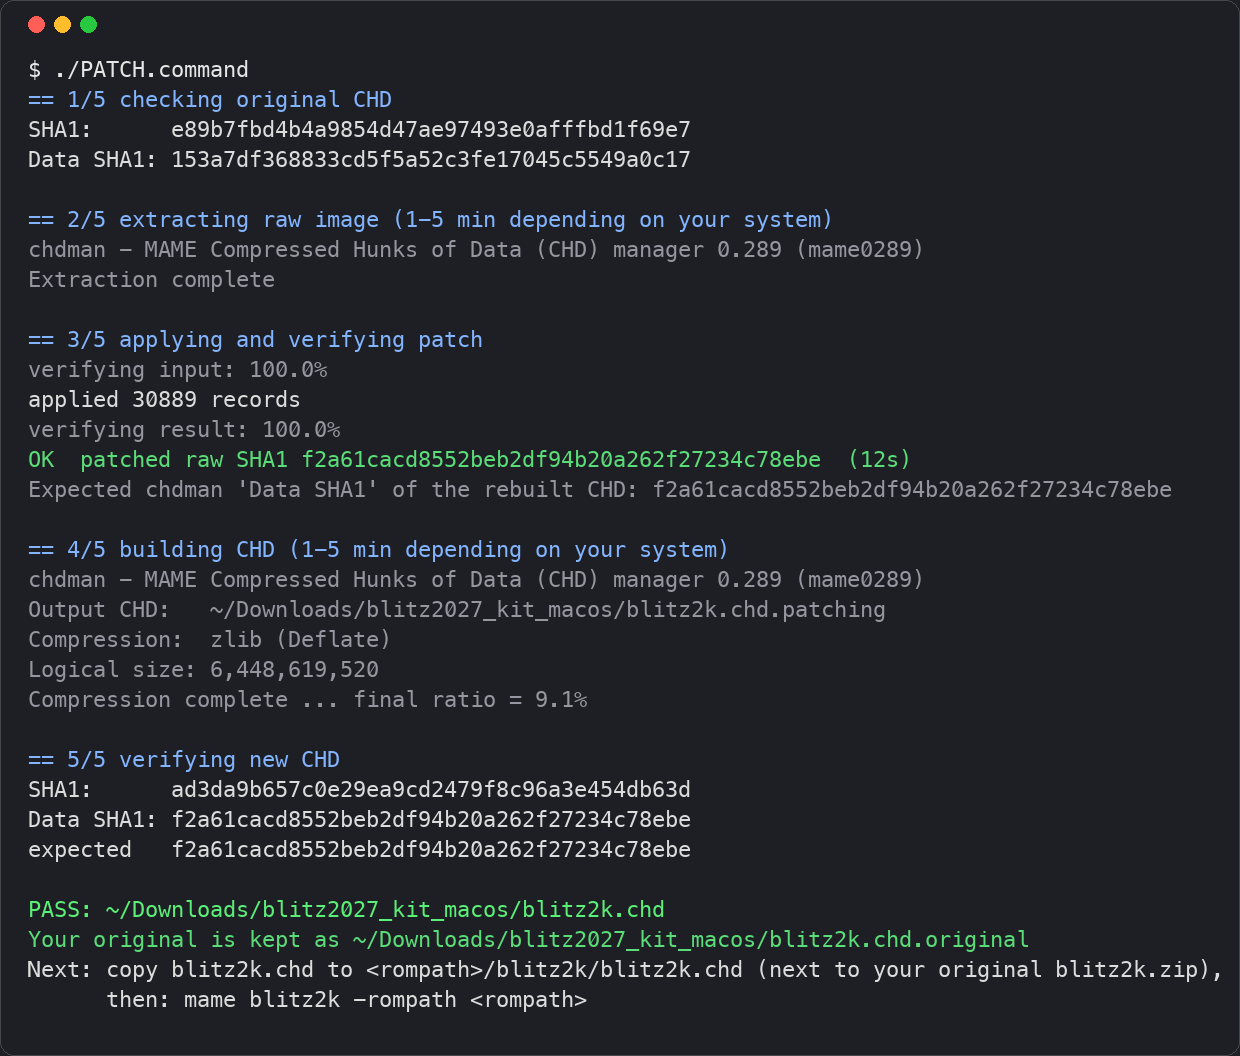
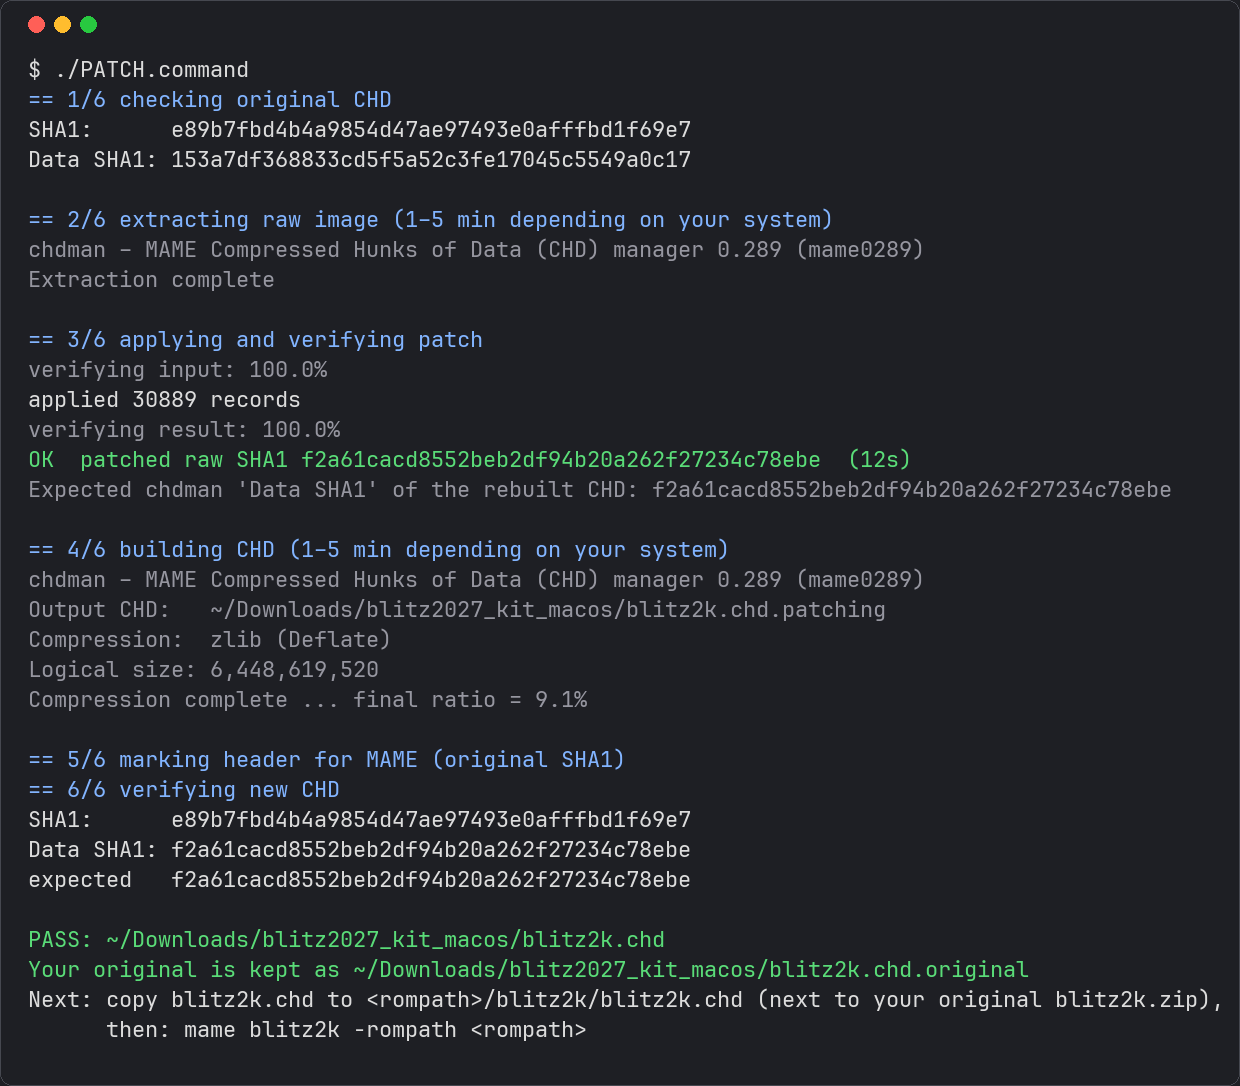
v1.0.1: mark CHD header with the original SHA1 so MAME boots without the checksum notice

diff --git a/dist/go/run.go b/dist/go/run.go
@@ -2,6 +2,7 @@ package main
 
 import (
 	"bytes"
+	"encoding/binary"
 	"encoding/hex"
 	"fmt"
 	"os"
@@ -42,6 +43,38 @@ func runChdman(chdman string, args ...string) *exitErr {
 		return fail(4, "chdman %s failed: %v", args[0], err)
 	}
 	fmt.Fprintln(os.Stderr)
+	return nil
+}
+
+// origCHDSHA1 is the "SHA1" field of the original blitz2k.chd header. MAME trusts this
+// field instead of rehashing, so writing it makes the patched disk pass its audit.
+// The "Data SHA1" field (the one the PASS check uses) is left alone.
+const (
+	origCHDSHA1   = "e89b7fbd4b4a9854d47ae97493e0afffbd1f69e7"
+	chdSHA1Offset = 84
+)
+
+// markCHDHeader writes origCHDSHA1 into the CHD v5 header of path.
+func markCHDHeader(path string) *exitErr {
+	want, _ := hex.DecodeString(origCHDSHA1)
+	f, err := os.OpenFile(path, os.O_RDWR, 0)
+	if err != nil {
+		return fail(3, "cannot open %s to mark header: %v", path, err)
+	}
+	defer f.Close()
+	hdr := make([]byte, 16)
+	if _, err := f.ReadAt(hdr, 0); err != nil {
+		return fail(3, "cannot read CHD header of %s: %v", path, err)
+	}
+	if string(hdr[:8]) != "MComprHD" || binary.BigEndian.Uint32(hdr[12:16]) != 5 {
+		return fail(4, "%s is not a CHD v5 file (unexpected header); cannot mark it for MAME.", path)
+	}
+	if _, err := f.WriteAt(want, chdSHA1Offset); err != nil {
+		return fail(3, "cannot write CHD header of %s: %v", path, err)
+	}
+	if err := f.Sync(); err != nil {
+		return fail(3, "cannot flush CHD header of %s: %v", path, err)
+	}
 	return nil
 }
 
@@ -134,7 +167,7 @@ func run(args []string) *exitErr {
 	wantIn := hex.EncodeToString(h.pchd[:])
 	wantOut := hex.EncodeToString(h.tchd[:])
 
-	fmt.Println("== 1/5 checking original CHD")
+	fmt.Println("== 1/6 checking original CHD")
 	got, sha, e := chdmanDataSHA1(chdman, in)
 	if e != nil {
 		return e
@@ -166,21 +199,26 @@ func run(args []string) *exitErr {
 	defer os.RemoveAll(work)
 	raw := filepath.Join(work, "in.raw")
 
-	fmt.Println("\n== 2/5 extracting raw image (1-5 min depending on your system)")
+	fmt.Println("\n== 2/6 extracting raw image (1-5 min depending on your system)")
 	if e := runChdman(chdman, "extracthd", "-f", "-i", in, "-o", raw); e != nil {
 		return e
 	}
-	fmt.Println("== 3/5 applying and verifying patch")
+	fmt.Println("== 3/6 applying and verifying patch")
 	if e := apply([]string{raw, bpz, "--in-place"}); e != nil {
 		return e
 	}
-	fmt.Println("\n== 4/5 building CHD (1-5 min depending on your system)")
+	fmt.Println("\n== 4/6 building CHD (1-5 min depending on your system)")
 	if e := runChdman(chdman, "createhd", "-f", "-i", raw, "-o", out, "-c", "zlib", "-hs", "4096", "-chs", "784,255,63", "-ss", "512"); e != nil {
 		os.Remove(out)
 		return e
 	}
 	os.Remove(raw)
-	fmt.Println("== 5/5 verifying new CHD")
+	fmt.Println("== 5/6 marking header for MAME (original SHA1)")
+	if e := markCHDHeader(out); e != nil {
+		os.Remove(out)
+		return e
+	}
+	fmt.Println("== 6/6 verifying new CHD")
 	got, sha, e = chdmanDataSHA1(chdman, out)
 	if e != nil {
 		return e

diff --git a/dist/apply_patch.py b/dist/apply_patch.py
@@ -1,5 +1,6 @@
 #!/usr/bin/env python3
 """apply_patch.py PRISTINE.raw blitz2027.bpz -o OUT.raw   (or --in-place)
+       apply_patch.py --mark-chd REBUILT.chd
 
 Python 3.8+, stdlib only. Verifies the pristine SHA1 (streaming) before
 touching anything, applies the patch, then verifies the target SHA1.
@@ -19,10 +20,25 @@ def sha1_file(path, label):
     print(file=sys.stderr)
     return h.digest()
 
+ORIG_CHD_SHA1 = bytes.fromhex("e89b7fbd4b4a9854d47ae97493e0afffbd1f69e7")  # original blitz2k.chd header "SHA1"
+CHD_SHA1_OFFSET = 84
+
+def mark_chd_header(path):
+    """Write the original disk's SHA1 into a CHD v5 header (MAME trusts it, never rehashes).
+    The Data SHA1 field is untouched. Run on the CHD you built from the patched raw."""
+    with open(path, "r+b") as f:
+        hdr = f.read(16)
+        if hdr[:8] != b"MComprHD" or struct.unpack(">I", hdr[12:16])[0] != 5:
+            die(f"{path} is not a CHD v5 file; cannot mark it for MAME")
+        f.seek(CHD_SHA1_OFFSET); f.write(ORIG_CHD_SHA1); f.flush(); os.fsync(f.fileno())
+    print(f"marked {path}: header SHA1 = {ORIG_CHD_SHA1.hex()}")
+
 def die(msg):
     sys.exit("ERROR: " + msg)
 
 def main():
+    if len(sys.argv) == 3 and sys.argv[1] == "--mark-chd":
+        return mark_chd_header(sys.argv[2])
     ap = argparse.ArgumentParser()
     ap.add_argument("pristine_raw"); ap.add_argument("patch")
     g = ap.add_mutually_exclusive_group(required=True)
@@ -74,6 +90,8 @@ def main():
     print(f"OK  patched raw SHA1 {got.hex()}  ({time.time()-t0:.0f}s)")
     print(f"Expected chdman 'Data SHA1' of the rebuilt CHD: {tchd.hex()}")
     print(f"Target raw MD5: {tmd5.hex()}")
+    print("Next: chdman createhd -i <raw> -o blitz2k.chd -c zlib -hs 4096 -chs 784,255,63 -ss 512,")
+    print("then: apply_patch.py --mark-chd blitz2k.chd   (so MAME accepts it as the original)")
 
 if __name__ == "__main__":
     main()

diff --git a/README.md b/README.md
@@ -15,7 +15,7 @@ MAME set blitz2k, *NFL Blitz 2000 Gold Edition (ver 1.2, Sep 22 1999)*:
 
 Only the CHD changes; keep your blitz2k.zip as is. Check yours with `chdman info -i blitz2k.chd` (the SHA1 line) and `mame -verifyroms blitz2k`. This repository holds the patcher and the tooling that builds the downloads.
 
-Current release: **v1.0.0** (build 1006a)
+Current release: **v1.0.1** (build 1007a)
 
 ## What's new since the original game
 - **32 teams.** The Houston Texans join with their own roster, ratings, helmets, uniforms, end zone, wordmark and announcer bank.
@@ -46,16 +46,16 @@ Takes 2 to 10 minutes depending on your system and needs about 13 GB of temporar
    - **macOS:** double-click PATCH.command. The patch's programs are not notarized; see the macOS note under Notes below.
    - **Linux:** run ./patch.sh. x86-64 and arm64 are both in the one zip and the right one is selected automatically. Set CHDMAN=/path/to/chdman to use your own chdman.
 3. Wait for **PASS**. The patch folder now holds the patched blitz2k.chd and your untouched original as blitz2k.chd.original (keep it; you need it for future versions). Copy the new blitz2k.chd into your MAME rompath's blitz2k folder, next to your unmodified blitz2k.zip, replacing the old one.
+4. Delete any old diff file for the game (see Notes), then launch: `mame blitz2k` from a command line, or pick NFL Blitz 2000 Gold from the MAME menu. No checksum notice appears; the patcher marks the disk so MAME and frontends treat it as the original.
 
-Expected result: CHD Data SHA1 `f2a61cacd8552beb2df94b20a262f27234c78ebe` (file MD5 `136779c93424c8352ac789c7738f8a28`).
+Expected result: CHD Data SHA1 `f2a61cacd8552beb2df94b20a262f27234c78ebe` (file MD5 `3a251f8604947e989cae846a541980ef`).
 
 A successful run ends like this:
 
 ![Patch output ending in PASS](docs/images/patch_output.png)
 
 ## Notes
-- **MAME checksum warning at boot is expected.** Press a key or launch with -skip_gameinfo. A modded disk can never match the driver's hash.
-- **"DIFF CHD ERROR: Invalid parent".** Delete diff\blitz2k.dif in your MAME folder; it was created for the original disk.
+- **Delete your old diff file before the first launch.** MAME stores the game's disk writes in diff\blitz2k.dif (in your MAME folder, or wherever diff_directory points). A diff file created by the original game does not belong to the patched disk, and MAME will not reject it because the patched disk carries the original's SHA1. Delete it once before the first run. If you forget, the game may boot with stale data or show DIFF CHD ERROR.
 - **macOS "cannot be opened" warning.** The patch's programs are not notarized with Apple. PATCH.command clears the download flag itself, so normally nothing is needed; if macOS still blocks it, right-click PATCH.command and choose Open once.
 
 ## Build the patcher from source

diff --git a/CHANGELOG.md b/CHANGELOG.md
@@ -2,6 +2,13 @@
 
 All notable changes to NFL Blitz 2027. Format follows [Keep a Changelog](https://keepachangelog.com/).
 
+## [1.0.1] - 2026-10-21
+
+Build 1007a. The game content is identical to 1.0.0; only the CHD header and the patcher change.
+
+### Changed
+- The patcher now writes the original disk's SHA1 into the CHD header, so MAME boots without the checksum notice, passes the ROM audit, and launches from the MAME menu and frontends. The patch data is unchanged.
+
 ## [1.0.0] - 2026-10-06
 
 First public release (build 1006a). Everything below describes how NFL Blitz 2027 differs from the original **NFL Blitz 2000 Gold** arcade game (MAME blitz2k).
